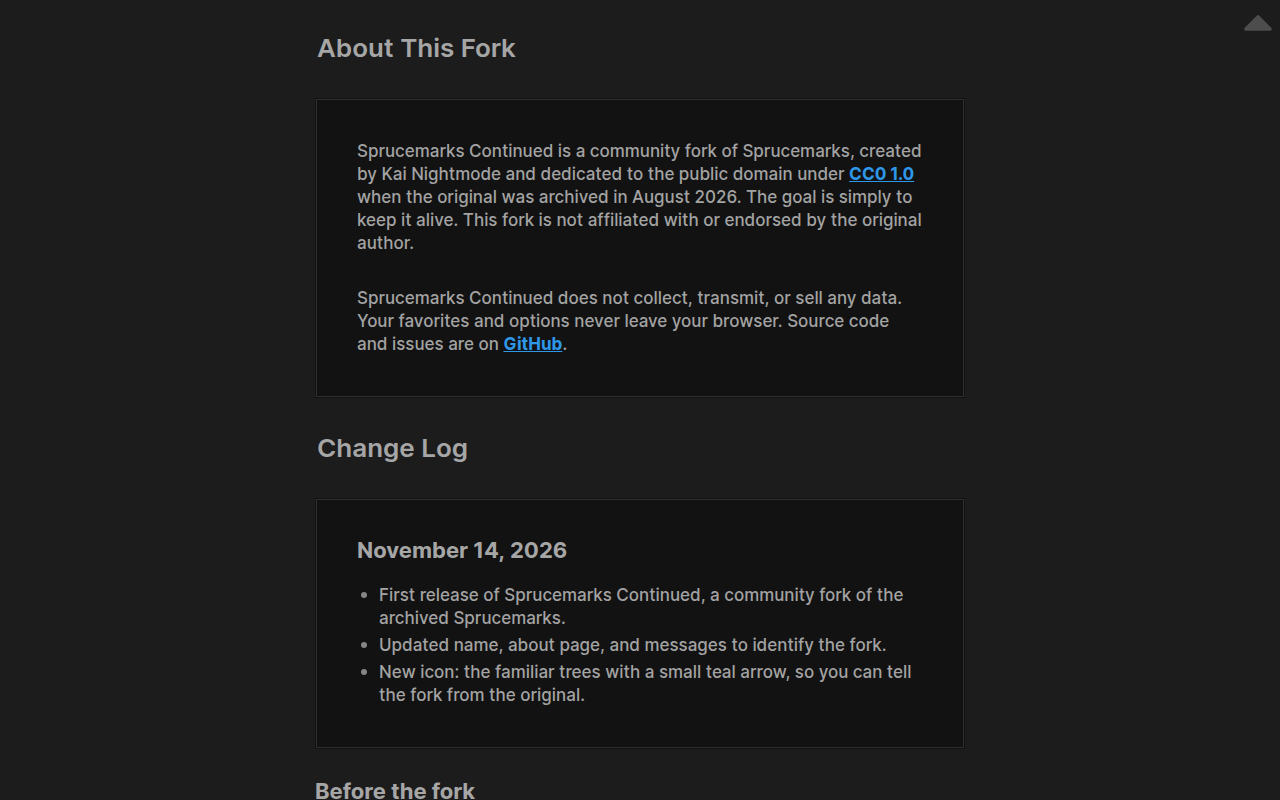
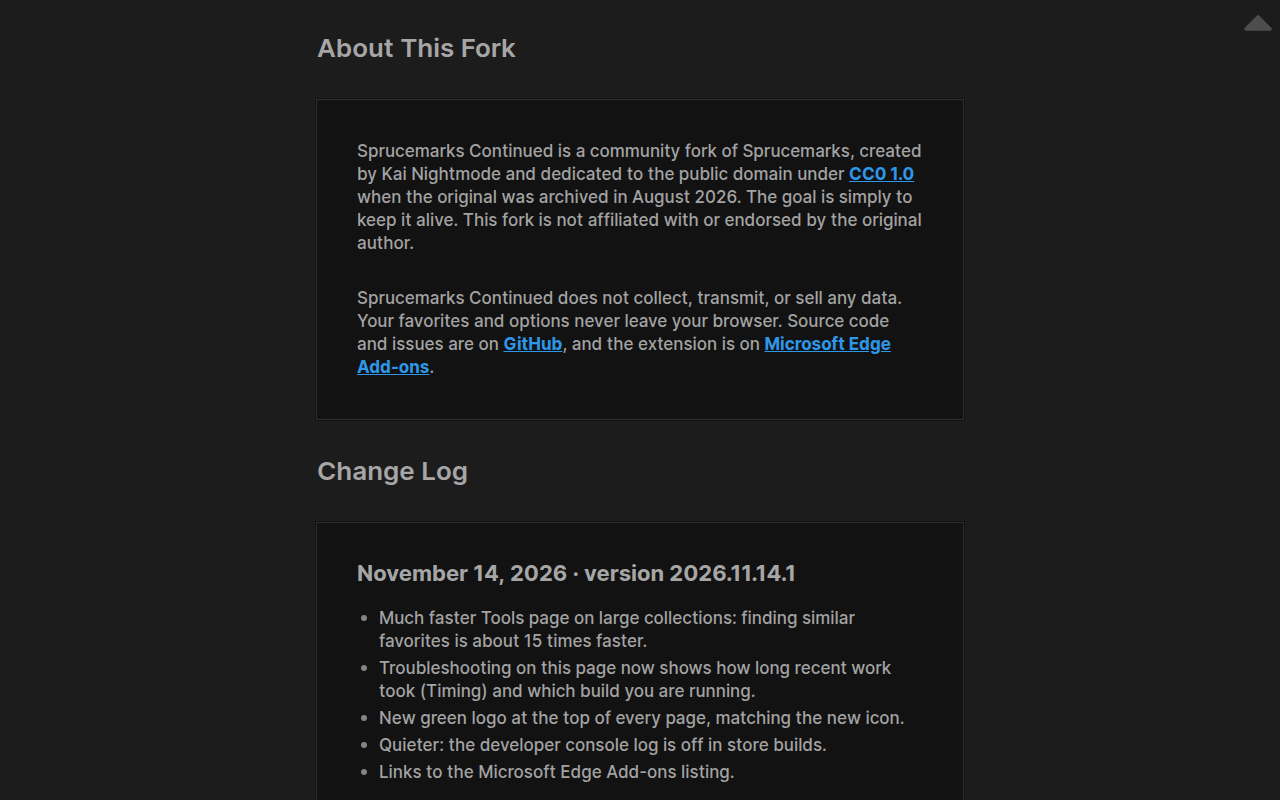
Release 2026.11.14.1
Version bump and changelog: 15x faster similar-favorites scan, timing and
build info on About, green page logo, logging off in store builds, link
to the Edge Add-ons listing. Refreshed the About screenshot; update notes
for Partner Center in store/listing.md.

diff --git a/deploy/page/dark/dark/about.html b/deploy/page/dark/dark/about.html
@@ -160,7 +160,31 @@
 
             <div class="box">
                 <div class="box-inner">
-                    <h3>November 14, 2026</h3>
+                    <h3>November 14, 2026 &middot; version 2026.11.14.1</h3>
+
+                    <ul>
+                        <li>
+                            Much faster Tools page on large collections: finding similar <span class="only-non-edge">bookmarks</span><span class="only-edge">favorites</span> is about 15 times faster.
+                        </li>
+                        <li>
+                            Troubleshooting on this page now shows how long recent work took (Timing) and which build you are running.
+                        </li>
+                        <li>
+                            New green logo at the top of every page, matching the new icon.
+                        </li>
+                        <li>
+                            Quieter: the developer console log is off in store builds.
+                        </li>
+                        <li>
+                            Links to the Microsoft Edge Add-ons listing.
+                        </li>
+                    </ul>
+                </div><!-- box-inner -->
+            </div><!-- box -->
+
+            <div class="box">
+                <div class="box-inner">
+                    <h3>November 14, 2026 &middot; version 2026.11.14.0</h3>
 
                     <ul>
                         <li>

diff --git a/deploy/page/dark/green/about.html b/deploy/page/dark/green/about.html
@@ -160,7 +160,31 @@
 
             <div class="box">
                 <div class="box-inner">
-                    <h3>November 14, 2026</h3>
+                    <h3>November 14, 2026 &middot; version 2026.11.14.1</h3>
+
+                    <ul>
+                        <li>
+                            Much faster Tools page on large collections: finding similar <span class="only-non-edge">bookmarks</span><span class="only-edge">favorites</span> is about 15 times faster.
+                        </li>
+                        <li>
+                            Troubleshooting on this page now shows how long recent work took (Timing) and which build you are running.
+                        </li>
+                        <li>
+                            New green logo at the top of every page, matching the new icon.
+                        </li>
+                        <li>
+                            Quieter: the developer console log is off in store builds.
+                        </li>
+                        <li>
+                            Links to the Microsoft Edge Add-ons listing.
+                        </li>
+                    </ul>
+                </div><!-- box-inner -->
+            </div><!-- box -->
+
+            <div class="box">
+                <div class="box-inner">
+                    <h3>November 14, 2026 &middot; version 2026.11.14.0</h3>
 
                     <ul>
                         <li>

diff --git a/deploy/page/dark/light/about.html b/deploy/page/dark/light/about.html
@@ -160,7 +160,31 @@
 
             <div class="box">
                 <div class="box-inner">
-                    <h3>November 14, 2026</h3>
+                    <h3>November 14, 2026 &middot; version 2026.11.14.1</h3>
+
+                    <ul>
+                        <li>
+                            Much faster Tools page on large collections: finding similar <span class="only-non-edge">bookmarks</span><span class="only-edge">favorites</span> is about 15 times faster.
+                        </li>
+                        <li>
+                            Troubleshooting on this page now shows how long recent work took (Timing) and which build you are running.
+                        </li>
+                        <li>
+                            New green logo at the top of every page, matching the new icon.
+                        </li>
+                        <li>
+                            Quieter: the developer console log is off in store builds.
+                        </li>
+                        <li>
+                            Links to the Microsoft Edge Add-ons listing.
+                        </li>
+                    </ul>
+                </div><!-- box-inner -->
+            </div><!-- box -->
+
+            <div class="box">
+                <div class="box-inner">
+                    <h3>November 14, 2026 &middot; version 2026.11.14.0</h3>
 
                     <ul>
                         <li>

diff --git a/deploy/page/light/dark/about.html b/deploy/page/light/dark/about.html
@@ -160,7 +160,31 @@
 
             <div class="box">
                 <div class="box-inner">
-                    <h3>November 14, 2026</h3>
+                    <h3>November 14, 2026 &middot; version 2026.11.14.1</h3>
+
+                    <ul>
+                        <li>
+                            Much faster Tools page on large collections: finding similar <span class="only-non-edge">bookmarks</span><span class="only-edge">favorites</span> is about 15 times faster.
+                        </li>
+                        <li>
+                            Troubleshooting on this page now shows how long recent work took (Timing) and which build you are running.
+                        </li>
+                        <li>
+                            New green logo at the top of every page, matching the new icon.
+                        </li>
+                        <li>
+                            Quieter: the developer console log is off in store builds.
+                        </li>
+                        <li>
+                            Links to the Microsoft Edge Add-ons listing.
+                        </li>
+                    </ul>
+                </div><!-- box-inner -->
+            </div><!-- box -->
+
+            <div class="box">
+                <div class="box-inner">
+                    <h3>November 14, 2026 &middot; version 2026.11.14.0</h3>
 
                     <ul>
                         <li>

diff --git a/deploy/page/light/green/about.html b/deploy/page/light/green/about.html
@@ -160,7 +160,31 @@
 
             <div class="box">
                 <div class="box-inner">
-                    <h3>November 14, 2026</h3>
+                    <h3>November 14, 2026 &middot; version 2026.11.14.1</h3>
+
+                    <ul>
+                        <li>
+                            Much faster Tools page on large collections: finding similar <span class="only-non-edge">bookmarks</span><span class="only-edge">favorites</span> is about 15 times faster.
+                        </li>
+                        <li>
+                            Troubleshooting on this page now shows how long recent work took (Timing) and which build you are running.
+                        </li>
+                        <li>
+                            New green logo at the top of every page, matching the new icon.
+                        </li>
+                        <li>
+                            Quieter: the developer console log is off in store builds.
+                        </li>
+                        <li>
+                            Links to the Microsoft Edge Add-ons listing.
+                        </li>
+                    </ul>
+                </div><!-- box-inner -->
+            </div><!-- box -->
+
+            <div class="box">
+                <div class="box-inner">
+                    <h3>November 14, 2026 &middot; version 2026.11.14.0</h3>
 
                     <ul>
                         <li>

diff --git a/deploy/page/light/light/about.html b/deploy/page/light/light/about.html
@@ -160,7 +160,31 @@
 
             <div class="box">
                 <div class="box-inner">
-                    <h3>November 14, 2026</h3>
+                    <h3>November 14, 2026 &middot; version 2026.11.14.1</h3>
+
+                    <ul>
+                        <li>
+                            Much faster Tools page on large collections: finding similar <span class="only-non-edge">bookmarks</span><span class="only-edge">favorites</span> is about 15 times faster.
+                        </li>
+                        <li>
+                            Troubleshooting on this page now shows how long recent work took (Timing) and which build you are running.
+                        </li>
+                        <li>
+                            New green logo at the top of every page, matching the new icon.
+                        </li>
+                        <li>
+                            Quieter: the developer console log is off in store builds.
+                        </li>
+                        <li>
+                            Links to the Microsoft Edge Add-ons listing.
+                        </li>
+                    </ul>
+                </div><!-- box-inner -->
+            </div><!-- box -->
+
+            <div class="box">
+                <div class="box-inner">
+                    <h3>November 14, 2026 &middot; version 2026.11.14.0</h3>
 
                     <ul>
                         <li>

diff --git a/store/listing.md b/store/listing.md
@@ -95,3 +95,17 @@ The favorites in the screenshots are made-up samples of public websites (see `ma
 ```
 Sprucemarks Continued is a community fork of the open-source Sprucemarks extension (CC0, archived by its author in 2026); this fork is not affiliated with the original author. No account or test credentials are needed. To test: open the extension from the toolbar icon, enable "Automatic Sorting" and a sort option (for example Favorites Bar: A–Z), then add or rename favorites and they are re-sorted within a second or two. The Tools page finds empty folders, duplicate favorites and similar favorites. The extension makes no network requests and uses only the "bookmarks" and "storage" permissions. Source: https://github.com/vitorhmcorreia/sprucemarks-continued
 ```
+
+## Updates
+
+Each update: upload the zip from the GitHub release (or `node build.js --no-tests --zip`), replace changed
+screenshots, and paste the notes below into "Notes for certification".
+
+### 2026.11.14.1
+
+Screenshots: replace `6-about-dark.png` (changelog and store link); the others are unchanged since the first
+submission except `1-options.png` and `5-preferences-dark.png`, which now show the green page logo.
+
+```
+Update with no new permissions (still only "bookmarks" and "storage"). Changes: the Tools page finds similar favorites about 15 times faster on large collections; the About page shows a timing summary and which build is running; a green page logo matching the icon; developer console logging is off; links to this listing. No network requests, no data collected. Source and change history: https://github.com/vitorhmcorreia/sprucemarks-continued
+```
